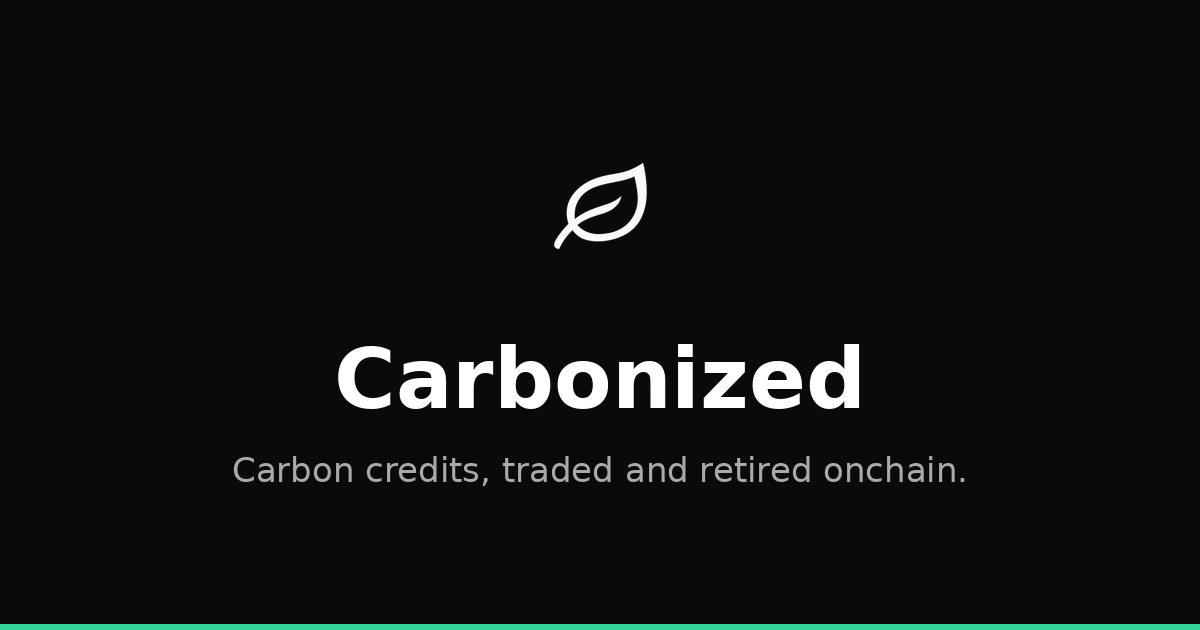
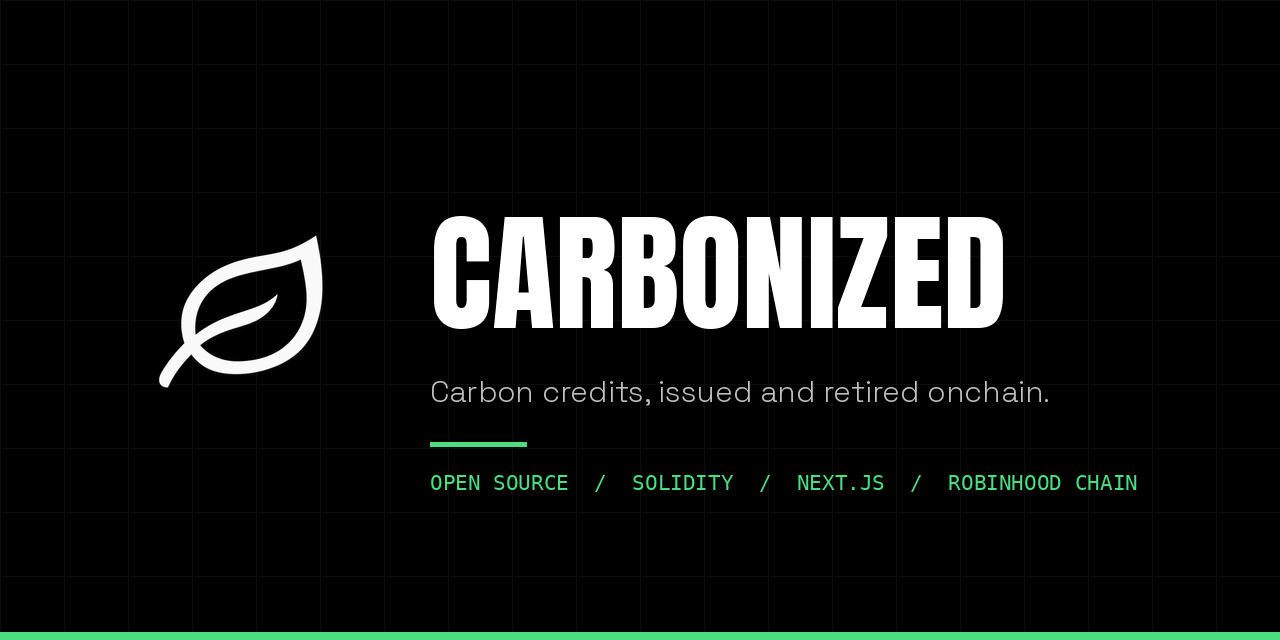
docs: rewrite README, add changelog, code of conduct, dependabot and CODEOWNERS

diff --git a/README.md b/README.md
@@ -1,37 +1,65 @@
+<p align="center">
+  <img src="./public/banner.png" alt="Carbonized: carbon credits, issued and retired onchain" width="100%">
+</p>
+
+<p align="center">
+  <a href="https://carbonized.app">Website</a> ·
+  <a href="https://carbonized.app/docs">Docs</a> ·
+  <a href="./docs/FORKING.md">Fork it</a> ·
+  <a href="./SECURITY.md">Security</a> ·
+  <a href="https://x.com/CarbonizedApp">X</a>
+</p>
+
+<p align="center">
+  <a href="./LICENSE"><img alt="License: MIT" src="https://img.shields.io/badge/license-MIT-4ade80?style=flat-square&labelColor=000"></a>
+  <img alt="Solidity 0.8.20" src="https://img.shields.io/badge/solidity-0.8.20-4ade80?style=flat-square&labelColor=000">
+  <img alt="Next.js 16" src="https://img.shields.io/badge/next.js-16-4ade80?style=flat-square&labelColor=000">
+  <img alt="Robinhood Chain 4663" src="https://img.shields.io/badge/chain-robinhood%204663-4ade80?style=flat-square&labelColor=000">
+  <img alt="Status: unaudited" src="https://img.shields.io/badge/status-unaudited-lightgrey?style=flat-square&labelColor=000">
+</p>
+
 # Carbonized
 
-Open-source architecture for an **onchain carbon credit marketplace**. Credits are issued as NFTs by approved issuers, pooled into fungible tokens per methodology, traded on an order book, in auctions and in an AMM, and permanently retired with a public certificate.
+An open-source **onchain marketplace for carbon credits**. A credit is issued by an approved issuer as an NFT, can be pooled into a fungible token per methodology, is traded on an order book or in an auction, and is finally **retired** with a public certificate. Every step is an onchain record anyone can follow.
 
-Live deployment: [carbonized.app](https://carbonized.app) on Robinhood Chain.
+> **Unaudited software.** The reference deployment is a controlled mainnet release on Robinhood Chain (chain id `4663`) with USDG settlement, a KYC gate and a Safe as admin. No independent security audit has been completed. A credit here is a token created by an approved issuer: the contracts check formats and uniqueness, not facts about the underlying project. Read [`SECURITY.md`](./SECURITY.md) before deploying anything with real value.
 
-> **Status: controlled mainnet beta, unaudited.** The reference deployment runs on Robinhood Chain (chain id `4663`) with USDG settlement, a KYC gate and a Safe wallet as admin. No independent security audit has been completed. Do not treat anything here as audited, and do not treat listed credits as verified emissions reductions. Read [`SECURITY.md`](./SECURITY.md) before deploying with real value.
+## How a credit moves
 
-## Why this is open source
+```mermaid
+flowchart LR
+    I[Approved issuer] -->|mint| N[Credit NFT<br/>one per serial]
+    N -->|wrap, eligible credits| P[Pooled token<br/>1 token = 1 tonne]
+    N -->|list| M[Marketplace<br/>order book · auctions]
+    P -->|list| M
+    M -->|buy / sell| H[Holder]
+    H -->|retire| R[Retirement certificate<br/>public record]
+```
 
-Carbon markets are national and regulated differently almost everywhere. Rather than one platform trying to be compliant in every country, this repository gives operators a **complete, inspectable base** to run their own marketplace:
+| Step | What happens | Contract |
+| --- | --- | --- |
+| Issue | A role-gated issuer mints one NFT per registry serial with an evidence hash. A serial can be tokenized once. | `CarbonCreditNFT` |
+| Pool | Eligible credits that match a methodology can be wrapped 1:1 by tonne into a fungible token. | `CarbonCreditToken` |
+| Trade | Order book and timed auctions, settled in the payment token, with an optional KYC gate. | `CarbonMarketplace` |
+| Record | Company and trader profiles, plus permanent retirement records. | `CarbonRegistry` |
+| Retire | The credit is burned and a certificate is stored onchain. | `CarbonCreditNFT` |
 
-- The settlement layer (contracts) is the same everywhere.
-- The things that differ by country (who may trade, how identity is verified, which registries and credit types are accepted) are **configuration and operator responsibility**, not code you have to rewrite.
+Optional lanes (price oracle, emission attestation, registry sync) are off by default: `CarbonPriceOracle`, `EmissionVerifier`, `RegistrySync`. A CARB utility stack (`CarbStaking`, `IssuerBond`, `CarbGovernor`, `CarbTimelock`, `CarbVotes`) exists for fee tiers, an optional issuer bond and bounded parameter governance. It is not live yet.
 
-If you want to run a marketplace in your country, you fork, plug in your own identity provider and issuers, get the legal advice and licences your jurisdiction requires, and deploy. See [`docs/FORKING.md`](./docs/FORKING.md) and [`docs/COMPLIANCE.md`](./docs/COMPLIANCE.md).
+## Repository layout
 
-## What is in this repository
-
-| Path | What |
-|---|---|
-| `src/`, `content/` | Next.js 16 web app: landing, `/app` dashboard, `/docs` (Fumadocs), blog |
-| `contracts/` | Solidity 0.8.20 contracts (Hardhat, OpenZeppelin), tests, deploy scripts |
-| `docs/` | Guides for operators who want to fork and run their own marketplace |
-
-Core contracts
-
-| Contract | Role |
-|---|---|
-| `CarbonCreditNFT` | ERC-721 credit, one token per serial number, issued by role-gated issuers |
-| `CarbonCreditToken` | Pooled ERC-20 per methodology (`1 token = 1 tonne`) |
-| `CarbonMarketplace` | Order book, auctions, AMM, payment-token settlement, KYC gate |
-| `CarbonRegistry` | Company and trader profiles, retirement records |
-| `CarbonPriceOracle`, `EmissionVerifier`, `RegistrySync` | Optional price and attestation lanes (disabled by default) |
+```
+.
+├── src/                 Next.js 16 app: landing, /app dashboard, /docs, blog
+├── content/             Docs (Fumadocs MDX) and blog posts
+├── contracts/           Solidity 0.8.20, Hardhat, OpenZeppelin
+│   ├── contracts/       core/ token/ oracle/ interfaces/
+│   ├── test/            unit/ integration/ fuzzing/
+│   └── scripts/         deploy, verify and release tooling
+├── docs/                Guides for teams forking the project
+├── scripts/             Security gate, link checks, static page build
+└── drizzle/             Optional accounts and comments schema
+```
 
 ## Quick start
 
@@ -41,32 +69,60 @@ Requirements: Node 22+ and pnpm 10.
 git clone https://github.com/CarbonizedLab/carbonized.git
 cd carbonized
 pnpm install
-cp .env.example .env.local   # then fill in the NEXT_PUBLIC_* variables
+cp .env.example .env.local   # fill in the NEXT_PUBLIC_* variables
 pnpm dev                     # http://localhost:3000
 ```
 
-The web app needs only public `NEXT_PUBLIC_*` variables (network, RPC, contract addresses, Reown project id). Accounts and blog comments are optional and need a Postgres database and Google OAuth; without them those features show a "not enabled" state.
+The app only needs public `NEXT_PUBLIC_*` variables: network, RPC, contract addresses and a Reown project id. Accounts and blog comments are optional and need Postgres and Google OAuth; without them those features show a "not enabled" state.
 
-Contracts:
+### Contracts
+
+The Hardhat suite (unit, integration and fuzz tests) currently reports **595 passing, 0 failing** on a clean run.
 
 ```bash
 cd contracts
 npm install --ignore-scripts
-npx hardhat test          # full suite
+npx hardhat compile
+npm run test:unit
+npm run test:integration
+npm run test:fuzzing
 ```
+
+### Useful scripts
+
+| Command | What it does |
+| --- | --- |
+| `pnpm dev` | Local dev server |
+| `pnpm check` / `pnpm typecheck` | Lint (Biome via Ultracite) and TypeScript |
+| `pnpm check:links` / `pnpm check:spelling` | Docs link and spelling checks |
+| `python3 scripts/security-gate.py` | Fails if secrets, keys or internal files are tracked |
+| `pnpm cf:build` | Production build for Cloudflare Workers, with prerendered pages as static assets |
+
+## Official CARB contract
+
+| | |
+| --- | --- |
+| Token | CARB |
+| Network | Robinhood Chain (`4663`) |
+| Address | [`0x48d134b04238ab7fb9134e6fc47149c39f3d022c`](https://robinhoodchain.blockscout.com/address/0x48d134b04238ab7fb9134e6fc47149c39f3d022c) |
+
+CARB is an external token that Carbonized does not control. Any other address attributed to CARB is not ours. Its utilities are not live yet.
 
 ## Run your own marketplace
 
+Carbon markets are regulated differently in almost every country, so this repository is a **complete, inspectable base** rather than one platform trying to comply everywhere. The settlement layer is shared. Who may trade, how identity is verified and which registries and credit types you accept are configuration and operator responsibility.
+
 1. Read [`docs/FORKING.md`](./docs/FORKING.md): what to change, in what order.
-2. Read [`docs/COMPLIANCE.md`](./docs/COMPLIANCE.md): what you must settle with your regulator and lawyer **before** you let anyone trade.
+2. Read [`docs/COMPLIANCE.md`](./docs/COMPLIANCE.md): what to settle with your regulator and lawyer before anyone trades.
 3. Rehearse on a testnet with `contracts/scripts/deploy/10_deploy_all.js`.
-4. Commission an independent security audit. Mainnet deployment in this repository is gated by an approved release manifest on purpose.
+4. Commission an independent security audit. Mainnet deployment here is gated by an approved release manifest on purpose.
 
 ## Contributing and security
 
-- Issues and pull requests are welcome: see [`CONTRIBUTING.md`](./CONTRIBUTING.md).
+- Issues and pull requests are welcome. Start with [`CONTRIBUTING.md`](./CONTRIBUTING.md).
 - Found a vulnerability? Do **not** open a public issue. See [`SECURITY.md`](./SECURITY.md).
+- Release history lives in [`CHANGELOG.md`](./CHANGELOG.md).
 
 ## License
 
-MIT. See [`LICENSE`](./LICENSE). The web app started from the MIT-licensed [shadcn-saas-landing](https://github.com/techwithanirudh/shadcn-saas-landing) template by Anirudh; see [`ATTRIBUTION.md`](./ATTRIBUTION.md). The license covers the code, not the Carbonized name or logo; forks should use their own branding.
+MIT, see [`LICENSE`](./LICENSE). The web app started from the MIT-licensed [shadcn-saas-landing](https://github.com/techwithanirudh/shadcn-saas-landing) template; see [`ATTRIBUTION.md`](./ATTRIBUTION.md). The license covers the code, not the Carbonized name or logo: forks should use their own branding.

diff --git a/CHANGELOG.md b/CHANGELOG.md
@@ -1,0 +1,28 @@
+# Changelog
+
+All notable changes to this project are documented here. The format follows [Keep a Changelog](https://keepachangelog.com/en/1.1.0/) and commits follow [Conventional Commits](https://www.conventionalcommits.org/).
+
+## [Unreleased]
+
+### Added
+- Official CARB token contract address on the landing page, in the docs and in the app's Token page.
+- `scripts/build-static-pages.mjs` and `worker-static.mjs`: prerendered pages, RSC payloads and segment prefetches are served from static assets, so the Next.js server only runs for APIs and uncached routes. Production CPU-limit errors dropped to zero in load testing.
+- `pnpm cf:build` for the Cloudflare Workers production build.
+- `CHANGELOG.md`, `CODE_OF_CONDUCT.md`, Dependabot configuration and a CODEOWNERS file.
+
+### Changed
+- Marketplace and auction pages scan event history from the configured deploy block instead of a fixed 20,000-block window, so older orders are listed.
+- Event log scans run in parallel and cache closed block windows, which makes page-to-page navigation faster.
+- Issuer page copy uses plain language instead of raw role names for visitors. Role names stay in the admin panel.
+- README rewritten with a credit lifecycle diagram, repository map and a scripts table. The banner now uses the supplied logo unchanged.
+
+### Fixed
+- Marketplace showed zero orders once the deployment was older than the scan window.
+
+## [0.1.0]
+
+### Added
+- Next.js 16 web app: landing, `/app` dashboard, docs and blog.
+- Solidity 0.8.20 contracts: `CarbonCreditNFT`, `CarbonCreditToken`, `CarbonMarketplace`, `CarbonRegistry`, optional oracle and attestation lanes, and the CARB utility stack.
+- Hardhat unit, integration and fuzz tests, deployment scripts and a release-manifest gate for mainnet.
+- Operator guides: `docs/FORKING.md` and `docs/COMPLIANCE.md`.

diff --git a/contracts/README.md b/contracts/README.md
@@ -6,9 +6,9 @@ Solidity 0.8.20 contracts for the Carbonized carbon credit marketplace, built wi
 |---|---|
 | `CarbonCreditNFT` | ERC-721 credit with project data, double-counting protection and retirement certificates |
 | `CarbonCreditToken` | ERC-20 pooled token (one per methodology) backed 1:1 by wrapped NFTs |
-| `CarbonMarketplace` | order book, auctions and AMM pool, settled in USDC, with a minimum price |
+| `CarbonMarketplace` | order book, auctions and AMM pool, settled in the configured payment token (USDG on the reference deployment), with a minimum price |
 | `CarbonRegistry` | company / trader registry, emissions totals, KYB verification flag |
-| `CarbonPriceOracle`, `EmissionVerifier`, `RegistrySync` | Chainlink Functions integrations (mocked on testnet) |
+| `CarbonPriceOracle`, `EmissionVerifier`, `RegistrySync` | Optional Chainlink Functions integrations, off by default (mocked on testnet) |
 
 Full reference: the **Smart contracts** section of the docs in this repository (`/docs/contracts`).
 
@@ -28,4 +28,4 @@ PRIVATE_KEY=<testnet deployer key, never commit>
 ROBINHOOD_RPC=https://rpc.testnet.chain.robinhood.com/rpc
 ```
 
-`deployments/robinhood.json` records the public addresses and deploy blocks. The contracts are **not audited**; oracle and USDC are mocks on testnet.
+`deployments/robinhood.json` records the public addresses and deploy blocks. The contracts are **not audited**; oracle and payment token are mocks on testnet.

diff --git a/CODE_OF_CONDUCT.md b/CODE_OF_CONDUCT.md
@@ -1,0 +1,17 @@
+# Code of Conduct
+
+We want Carbonized to be a place where people can work on climate and finance infrastructure without friction. This project follows the spirit of the [Contributor Covenant 2.1](https://www.contributor-covenant.org/version/2/1/code_of_conduct/).
+
+## Our standard
+
+Be respectful and specific. Critique code and ideas, not people. Assume good faith, and say so when you are unsure about intent.
+
+Not acceptable: harassment, personal attacks, discriminatory language, doxxing, or promoting tokens and unrelated products in issues and pull requests.
+
+## Scope
+
+This applies to issues, pull requests, discussions and any space where someone represents the project.
+
+## Enforcement
+
+Report problems by messaging [@CarbonizedApp](https://x.com/CarbonizedApp) and asking for a private channel. Maintainers may edit, hide or remove comments and may block contributors who break these rules. Security vulnerabilities are handled separately through [`SECURITY.md`](./SECURITY.md).
